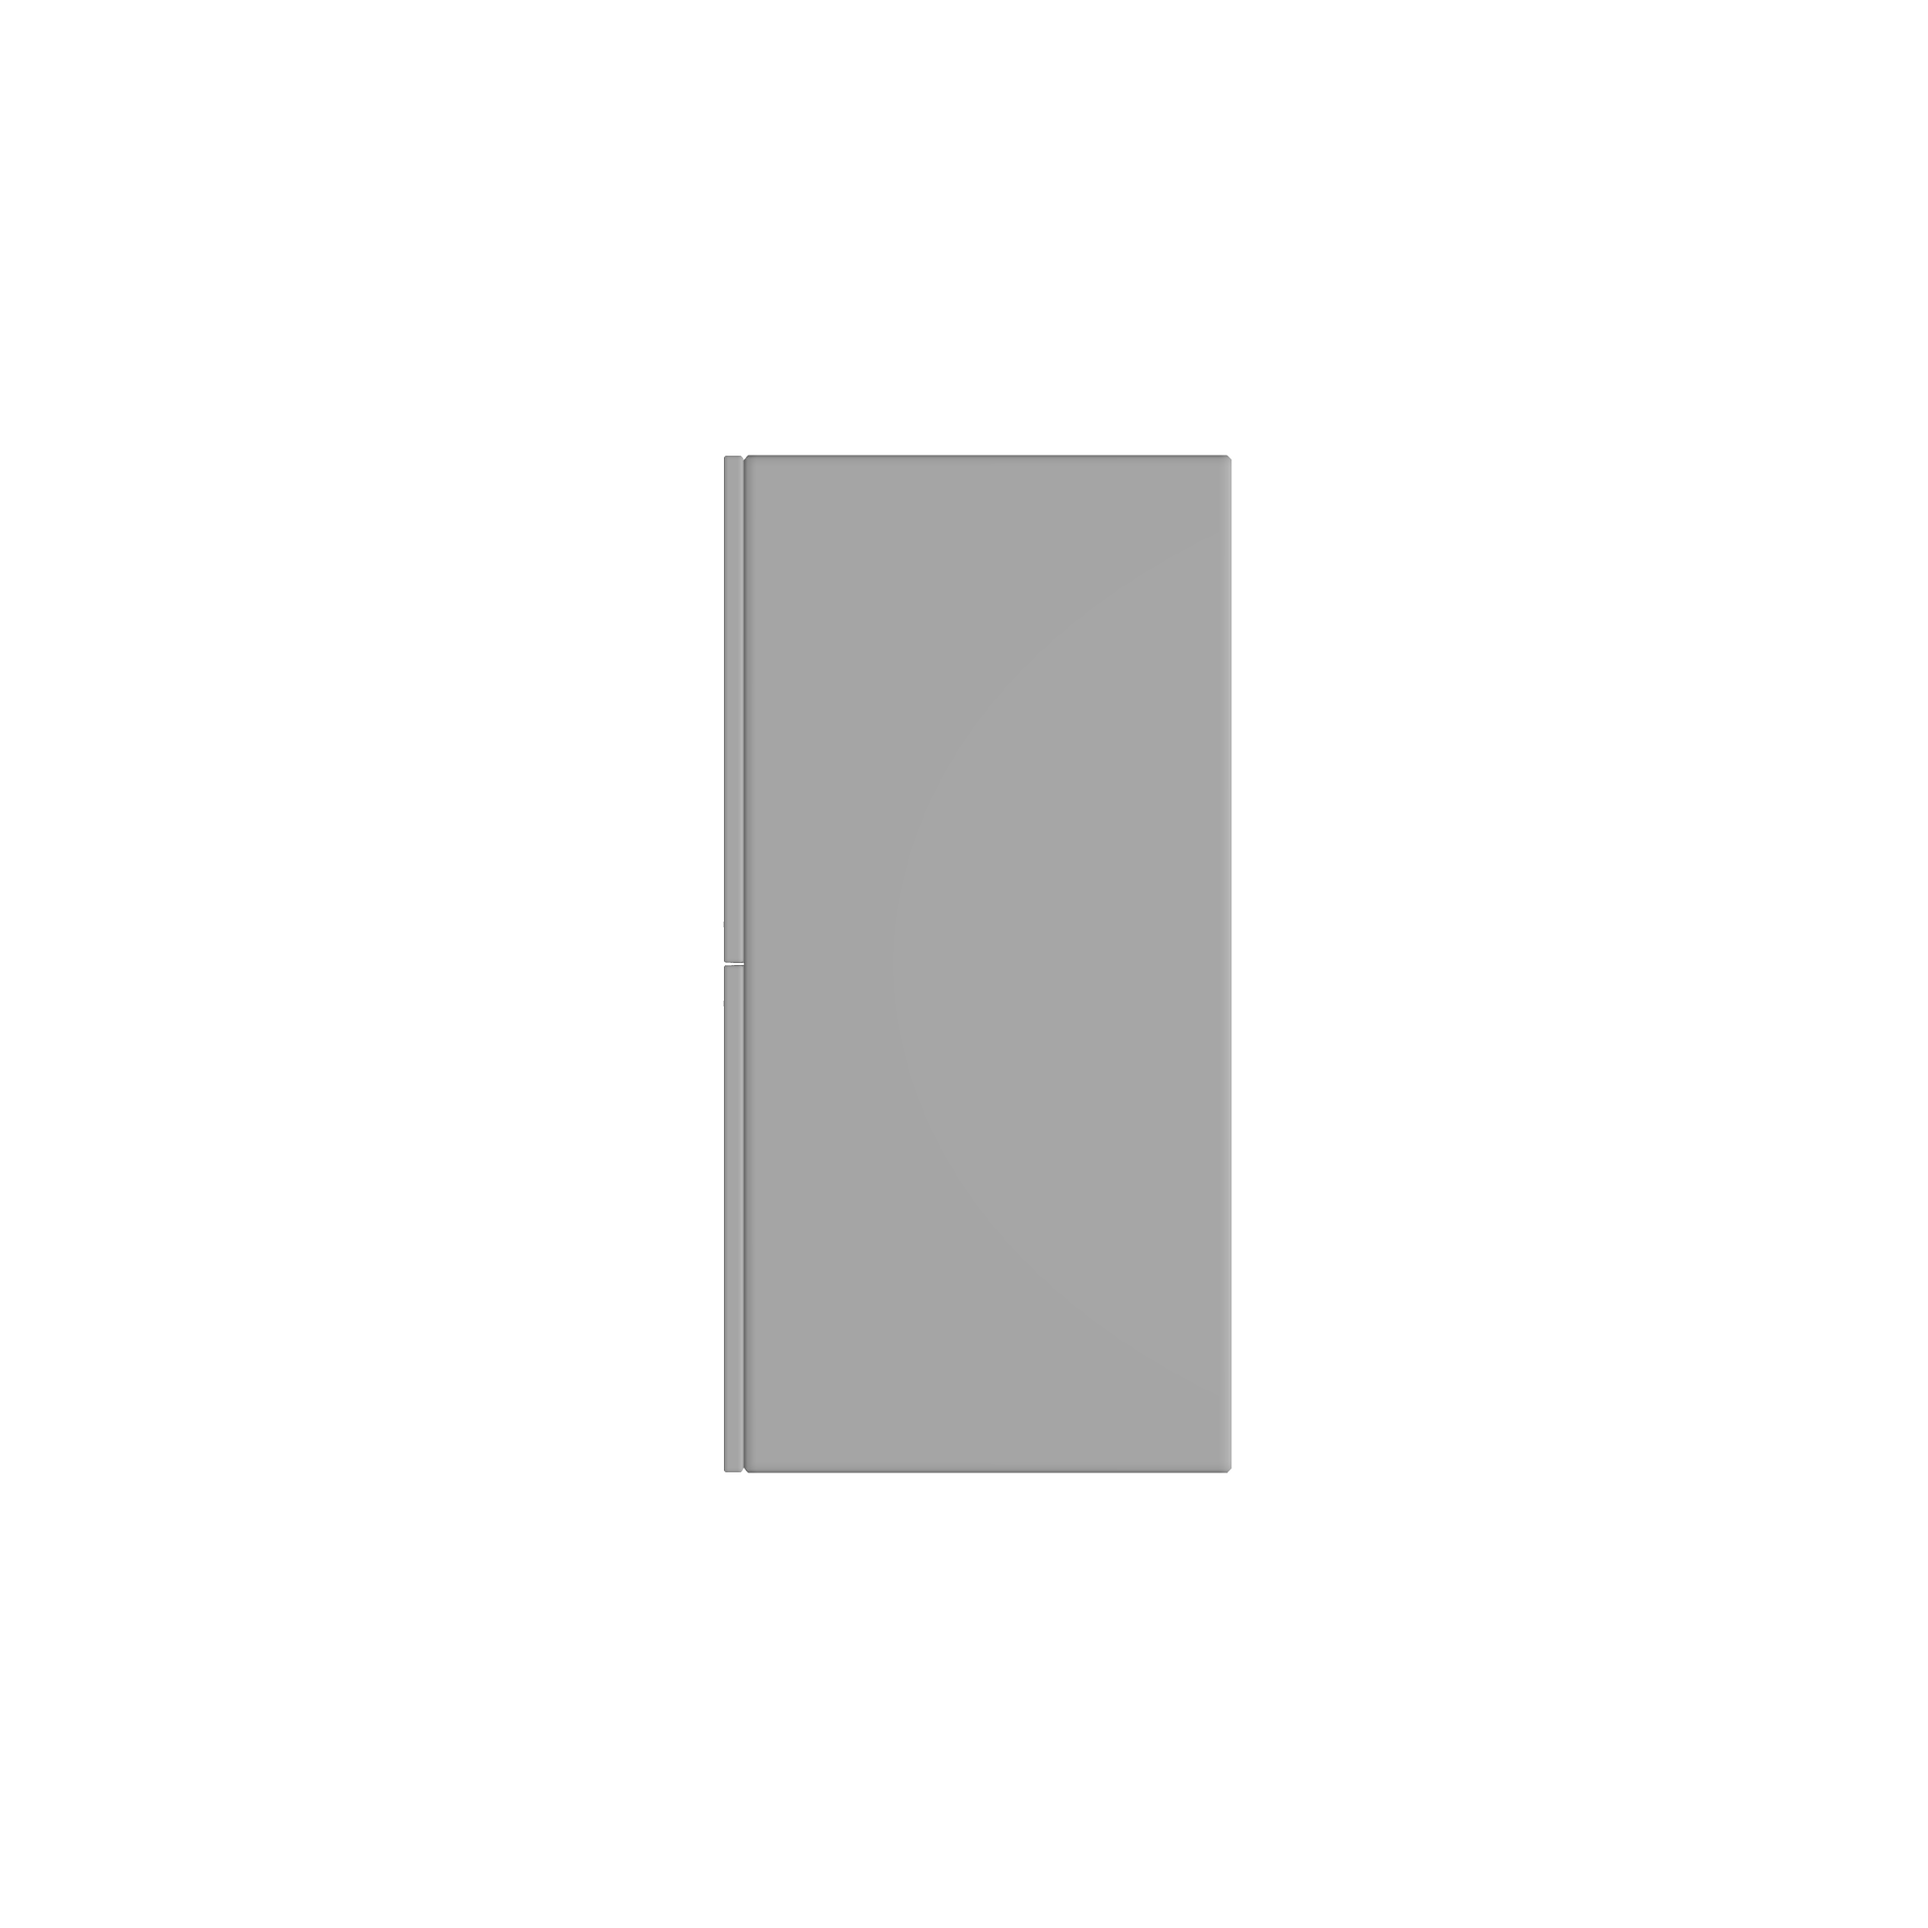
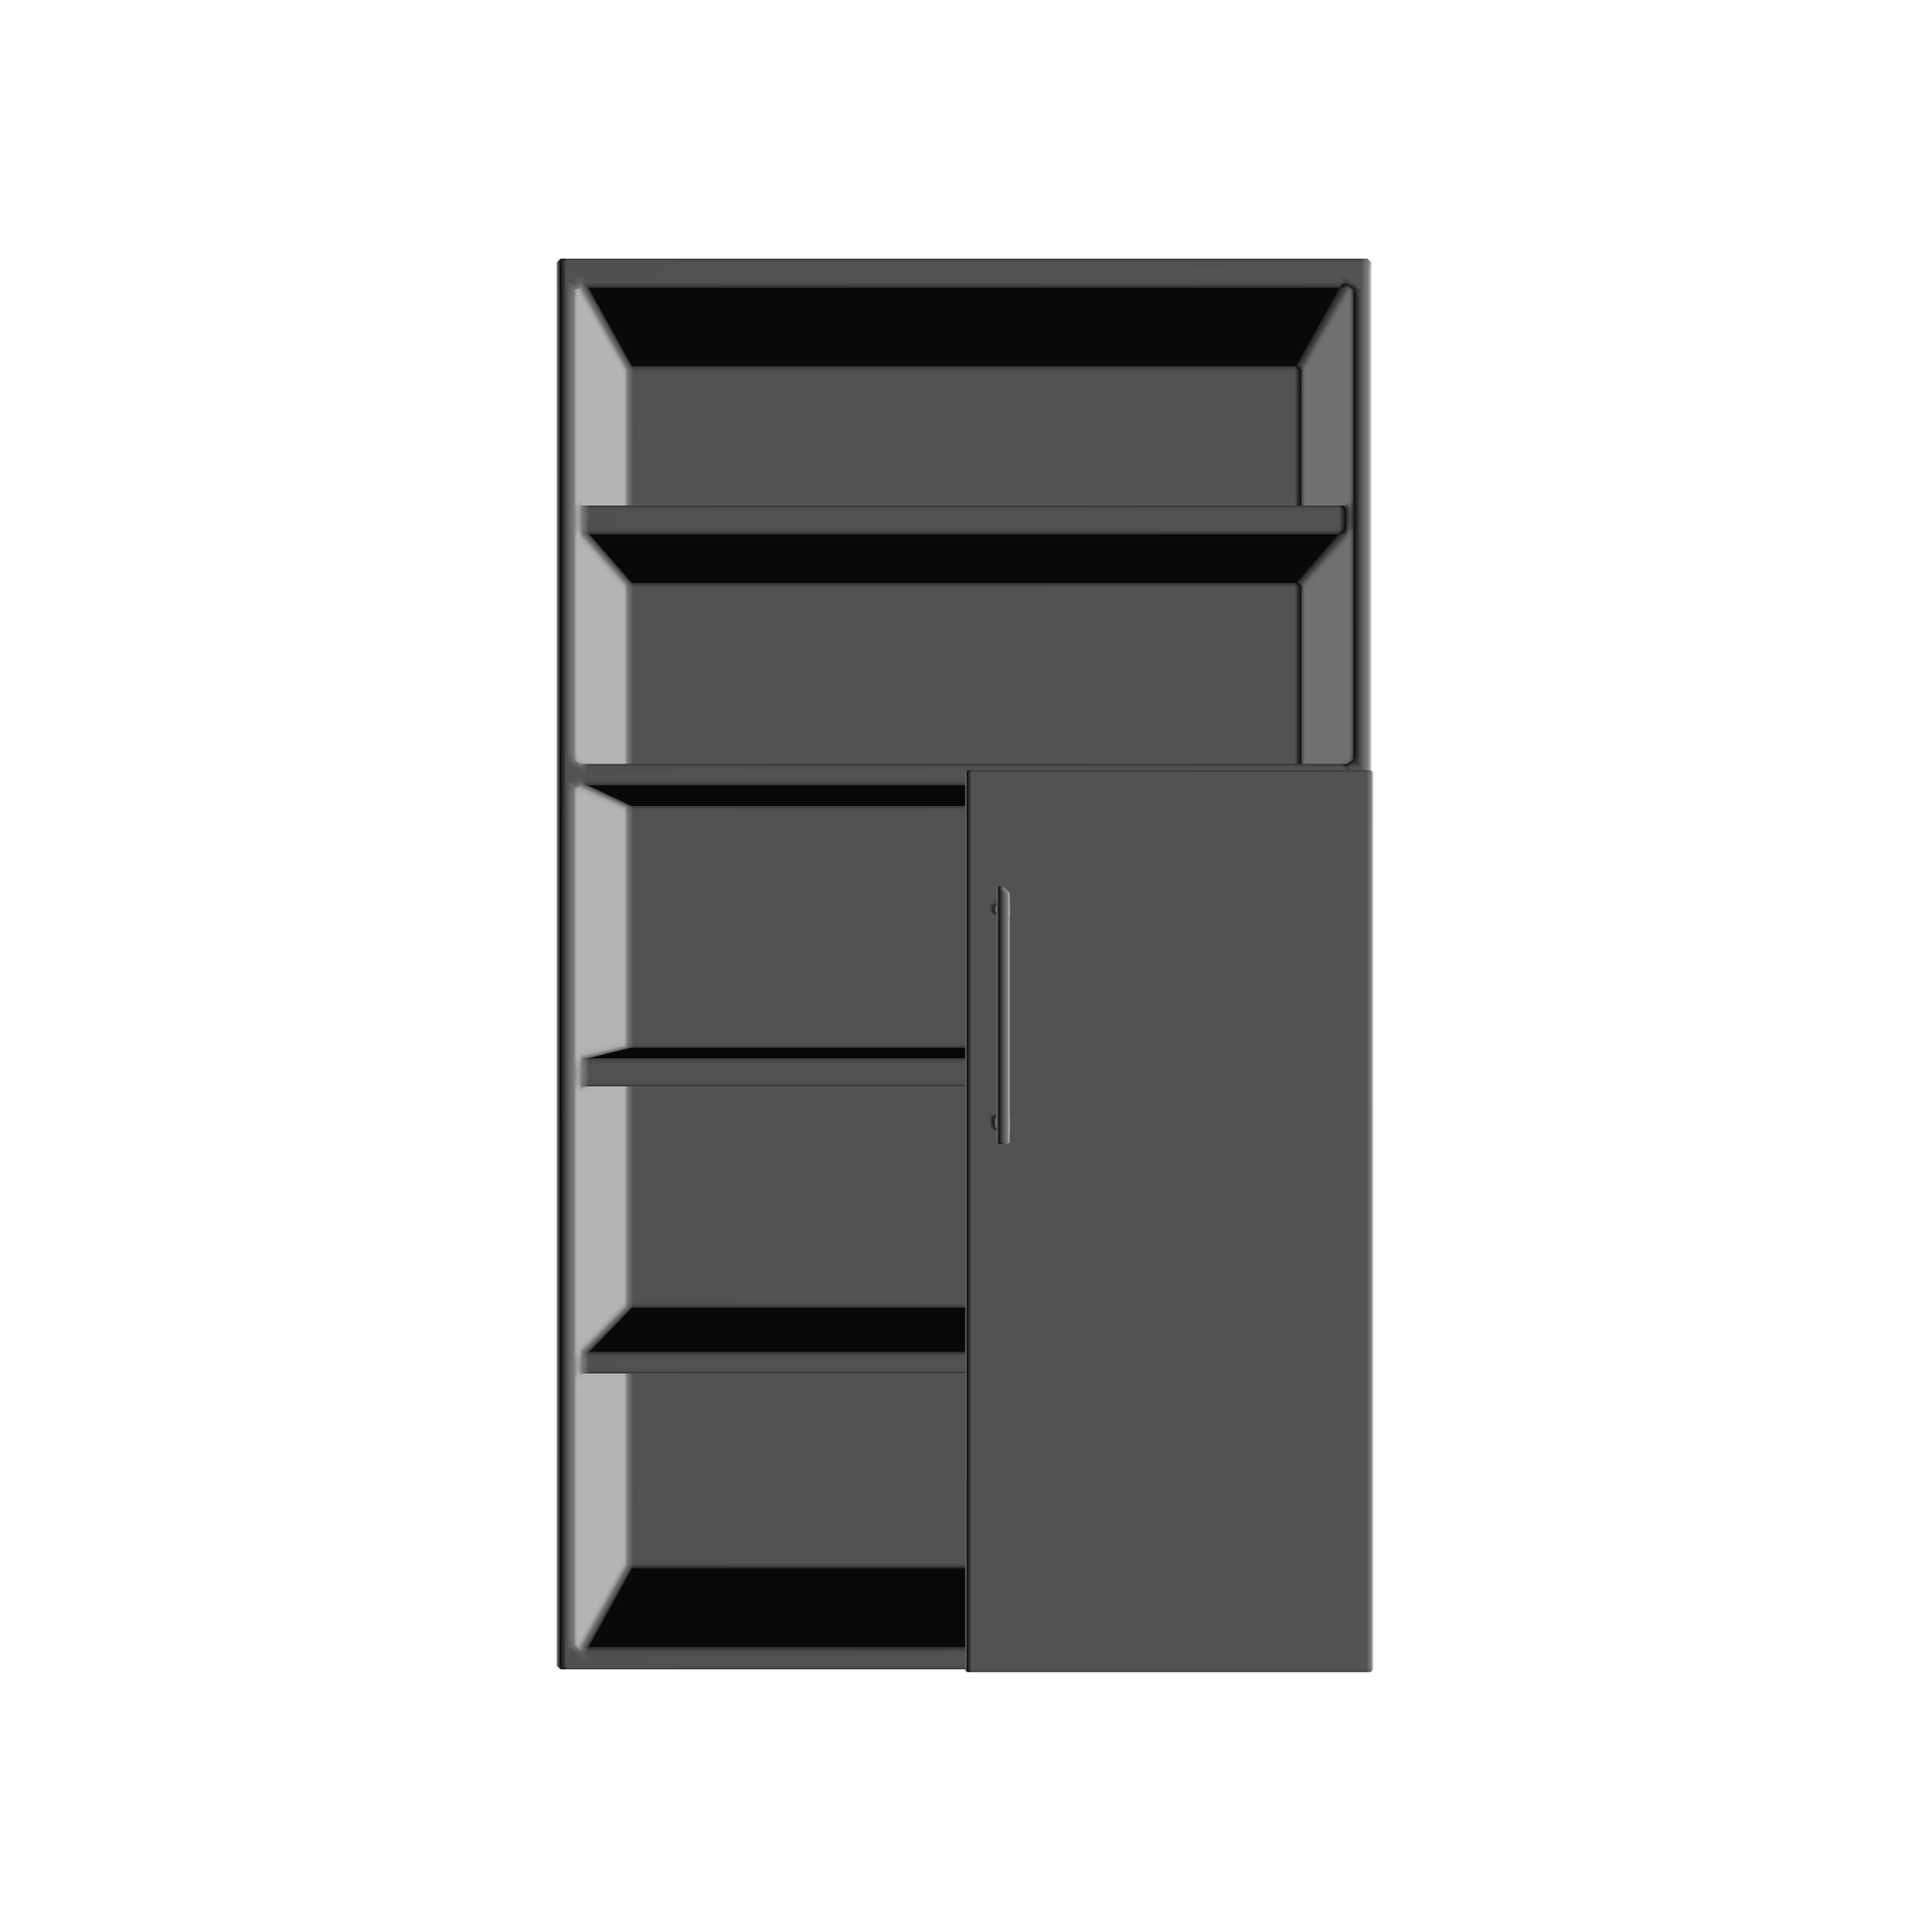
organize files

diff --git a/URDFoptimizer/render/render_urdf_angles_multijoint.py b/URDFoptimizer/render/render_urdf_angles_multijoint.py
@@ -484,8 +484,8 @@ def main():
     parser.add_argument("--angles", type=str, default="0,120", help="Comma-separated list of angles in degrees (applied to ALL revolute joints simultaneously)")
     parser.add_argument("--output", type=str, default="outputs/test4", help="Output directory")
     parser.add_argument("--unit-scale", type=float, default=1.0, help="Scale meshes by this factor")
-    parser.add_argument("--azimuth", type=float, default=90.0, help="Camera azimuth angle in degrees (0=+Z front, 90=+X right, 180=-Z back, 270=-X left)")
-    parser.add_argument("--elevation", type=float, default=30.0, help="Camera elevation angle in degrees (0=horizontal, 90=top, -90=bottom)")
+    parser.add_argument("--azimuth", type=float, default=270.0, help="Camera azimuth angle in degrees (0=+Z front, 90=+X right, 180=-Z back, 270=-X left)")
+    parser.add_argument("--elevation", type=float, default=0.0, help="Camera elevation angle in degrees (0=horizontal, 90=top, -90=bottom)")
     args = parser.parse_args()
 
     # Parse angles

diff --git a/datasets/merge_to_glb.py b/datasets/merge_to_glb.py
@@ -1,13 +1,4 @@
 #!/usr/bin/env python3
-"""
-Merge OBJ files to GLB format with two outputs:
-1. part.glb - Merged parts without textures
-2. texture.glb - Preserved original parts with textures
-
-Usage:
-    python merge_to_glb.py mesh/partnet mesh/partnet_glb --single 35059
-    python merge_to_glb.py mesh/partnet mesh/partnet_glb --range 35059 35100
-"""
 
 import os
 import sys
